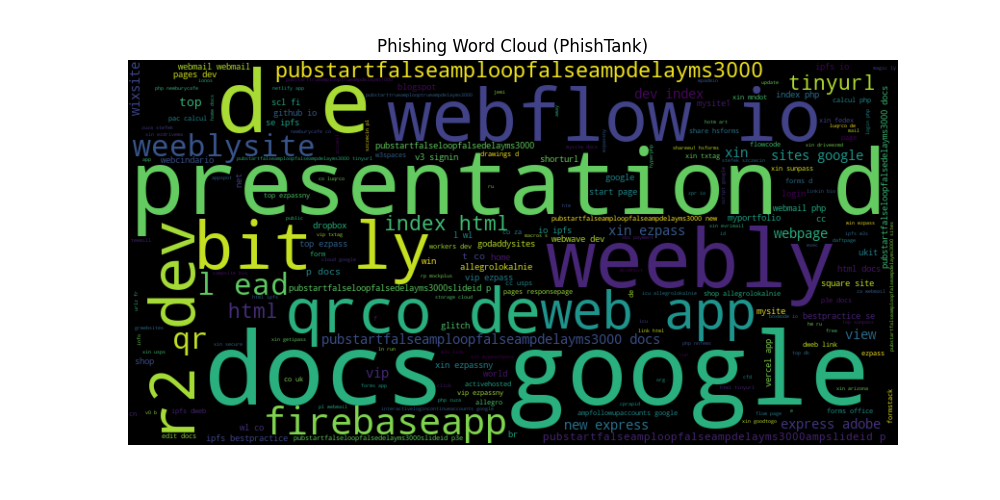
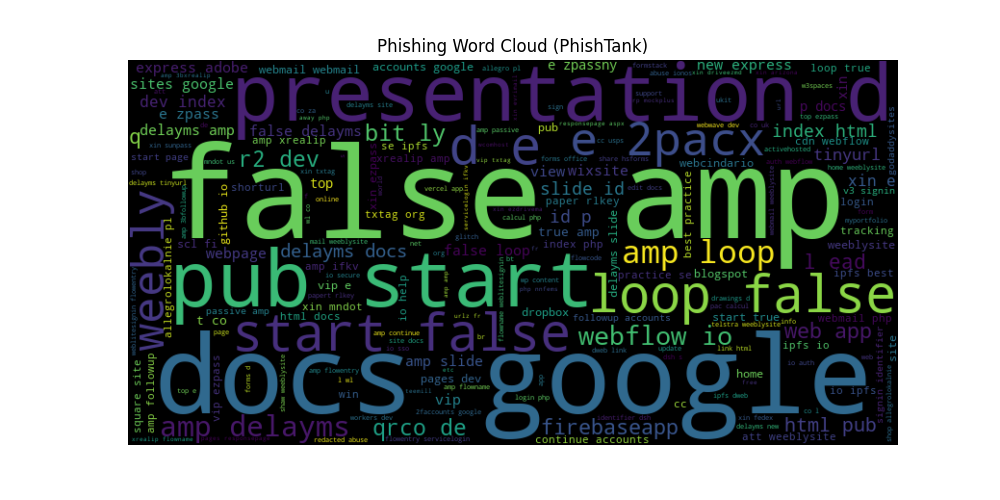
Updater EDA

diff --git a/results/eda/summary.md b/results/eda/summary.md
@@ -1,25 +1,26 @@
 # EDA Summary
 
 ## Enron
-**Summary**: {'Size': 33652, 'Columns': ['text', 'label'], 'Missing Values': {'text': 0, 'label': 0}, 'Duplicates': np.int64(4692)}
-**Label Distribution**: {1: 17107, 0: 16545}
-**Text Stats**: {'Char Length Mean': np.float64(1092.2825983596815), 'Char Length Median': np.float64(491.0), 'Word Length Mean': np.float64(1.0), 'Word Length Median': np.float64(1.0)}
-**Top Phishing Words**: [('savepercentonsuperviagrasavepercentonsuperviagraandincreasesexdrivemostplaceschargewechargeonlywhatisregalissuperviagraregaliscontainstadalafilmgwhichisthesameactiveingredientfoundinbrandnamecialisithasbeenprovedtohelpalargemajorityofmenwhosufferfromerectiledysfunctionalsocalledimpotencecialisisregardedasasuperviagraorweekendviagrabecauseitseffectsstartsoonerandlastmuchlongermenthatdonothaveimpotenceproblemsreportthatregalisincreasessexualpleasureandstayingpoweraswellasincreasingthesizeandhardnessoferectionsisitsafeformetotakeregalissuperviagrayoucanexpectgenericcialistoworkinthesamewayasbrandnamecialisbecausetheycontaintheexactsameactiveingredienttadalafilifcialisissafeforyouasdecidedbyyourdoctorgenericcialisisalsosafeforyouandshouldbetakeninthesamedosesasprescribedbyyourdoctortheusualdoesismgeachmgpillcanbesplitinhalfwillyoushipregalissuperviagratomycountrygenericcialisshipsworldwideincludingcanadajapanukandaustraliaweshipourproductinadiscretebrownpackagethatdoesnotmentionthecontentsoftheshipmentallordersareshippedfromindiaandusuallytakedaystoarivehowdoipayforregalissuperviagraweacceptmajorcreditcardsandcheckingaccountsusonlyalldataistransmitteddirectlytothebankusingbitencriptionandprocessedinstantlyweneverkeepyourinformationstoredonourserveryouaretotallysafetoorderonlinefromusinfactorderingonlinefromusissaferthanusingyourcardatarestaurantorstorebuyregalisgenericcialisandsavepercentwehavetheworldsbestpriceguaranteedremove', 9), ('fwdyourneededsoffttwaresatrockbottomprricewhatyouboughtpreviouslywasgotoshopbuuyyawindowsxpprothatcomeswithaboxserialnumberthemanualcosstwhatyouwillgetfromusisthefullwlndowsxpprosofftwareeserialnumberitworksexactlythesamebutyoudontgetthemanualandboxandtheprriceeisonlythatisasavviingofsooftwaretitleourlowpriicceadobbecreativesuitecdsadobbephotooshopcscddstudiomaxcdsadobbepremiereprocdaliaswavefrontmayaunlimitedautocadautodeskarchitecturaldesktopcakewalksonarproducereditioncdscanopusprocodercdcoreldrawgraphicsuitecdsdragonnaturallyspeakingpreferredmacromediadreamweavermxvmacromediafireworksmxvmacromediaflashmxvprofessionalmacromediastudiomxcdmicrosoftmoneydeluxecdmicrosoftofficesystemprofessionalcdsmicrosoftofficemultilingualuserinterfacepackcdsmicrosoftprojectpromicrosoftpublisherxpmicrosoftvisioforenterprisearchitectsmicrosoftwindowsxpcorporateeditionwithsplmicrosoftwindowsxpprofessionalnortonantiviruspronortonsystemworksprocdomnipageofficecdpinnacleimpressiondvdprocdptcproengineerwildfiredatecodecdspowerquestdriveimagemultilanguagecduleaddvdworkshopmicrosoftvisualstudionetenterprisearchitectcdswinfaxproandmoresoftwareshavesoftwaretitlesonoursiteforudownloadyoursofftwaaresfromoursuperfastmbitsconnectionsiteyouwillbegivenyourownexclusiveregistrationkeytoregisterthesofftwaaresyouboughtfromusandnowyouhaveyourownregisteredcopyofsofftwaareswillneverexpiredagainitsoemversionofsofftwaareswhichisanoriginalgenuinesofftwaaresstrictlynopiracysofftwaaresoverpopulartitlesforyoutochoosefromactquicknowbeforeallsoldstartusingyourneededsofftwaaresnowclickhereplzgiveminstocompletethepageloadingbcosthepagehastitlesonittakemedown', 8), ('overfdaapprovedmedsrndaltrndaltrndaltovermedstochoosefromwithnoprescriptionrequirednevermindrndaltrndaltrndalt', 8), ('hellodearhomeownerwehavebeennotifiedthatyourmortgagerateisfixedataveryhighinterestratethereforeyouarecurrentoverpayingwhichsumsuptothousandsofdollarsannuallyluckilyforyouwecanguaranteethelowestratesintheussohurrybecausetherateforecastisnotlookinggoodthereisnoobligationsanditfreelockontheevenwithbadcreditclickherenowfordetailsremovehere', 7), ('newproductcialissofttabshiwehaveanewproductthatweoffertoyoucialissofttabscialissofttabsisthenewimpotencetreatmentdrugthateveryoneistalkingaboutsofttabsactsuptohourscomparethistoonlytwoorthreehoursofviagraactiontheactiveingredientistadalafilsameasinbrandcialissimplydisolvehalfapillunderyourtongueminbeforesexforthebesterectionsyouveeverhadsofttabsalsohavelesssidebacksyoucandriveormixalcoholdrinkswiththemyoucangetitathttpgomedzcomsoftnothankshttpgomedzcomrrphp', 6), ('charityseestheneednotthecostdearfriendasyoureadthisidontwantyoutofeelsorryformebecauseibelieveeveryonewilldiesomedaymynameismrrezaabdullaamerchantinsafatinkuwaitiwasmarriedwithtwochildrenmywifeandtwochildrendiedinacaraccidentsixyearsagoihavebeendiagnosedwithesophagealcancerithasdefiledallformsofmedicaltreatmentandrightnowihaveonlyaboutafewmonthstoliveaccordingtomedicalexpertsihavenotparticularlylivedmylifesowellasineverreallycaredforanyonenotevenmyselfbutmybusinessthoughiamveryrichiwasnevergenerousiwasalwayshostiletopeopleandonlyfocusedonmybusinessasthatwastheonlythingicaredforbutnowiregretallthisasinowknowthatthereismoretolifethanjustwantingtohaveormakeallthemoneyintheworldibelievewhengodgivesmeasecondchancetocometothisworldiwouldlivemylifeadifferentwayfromhowihaveliveditnowthatgodhascalledmeihavewilledandgivenmostofmypropertyandassetstomyimmediateandextendedfamilymembersaswellasafewclosefriendsiwantgodtobemercifultomeandacceptmysoulsoihavedecidedtogivealmstocharityorganizationsasiwantthistobeoneofthelastgooddeedsidoonearthsofarihavedistributedmoneytosomecharityorganizationsintheuaealgeriaandmalaysianowthatmyhealthhasdeterioratedsobadlyicannotdothismyselfanymoreionceaskedmembersofmyfamilytocloseoneofmyaccountsanddistributethemoneywhichihavetheretocharityorganizationinbulgariaandpakistantheyrefusedandkeptthemoneytothemselveshenceidonottrustthemanymoreastheyseemnottobecontendedwithwhatihaveleftforthemthelastofmymoneywhichnooneknowsofisthehugecashdepositoftenmillionsevenhundredthousandamericandollarsusthatihavewithafinancesecuritycompanyabroadiwillwantyoutohelpmecollectthisdepositanddispatchedittocharityorganizationsihavesetasideonlyforyouandforyourtimeandalsoasmiscellaneousexpensesreplymeatyourearliestconvenienceformoredirectivestomyprivateemailaddressrezaabdullawallacomgodbewithyouregardsmrrezaabdulla', 6), ('getadelllaptopcomputerfree', 5), ('getyourcollegedegreeonline', 5), ('doyouejacultebeforeorafterfewminutesofpenetrationthenyoumustreadthisimportantnewinformationatlastsomethingcanbedoneagainstthisembarssingproblemwhichleadstodiscomforteveninlongestablishedrelationshipsifyouaremanenoughtoreadongoherenotinterested', 5), ('womenchangeyourlife', 4)]
-**Top Legitimate Words**: [('startdatehouraheadhourstartdatehouraheadhournoancillaryschedulesawardednovariancesdetectedlogmessagesparsingfileo\\portland\\westdesk\\californiascheduling\\isofinalschedules\\txt', 449), ('schedulecrawlerhouraheadfailurestartdatehouraheadhourhouraheadscheduledownloadfailedmanualinterventionrequired', 85), ('schedulecrawlerhouraheadfailurestartdatehouraheadhourhouraheadscheduledownloadfailedmanualinterventionrequiredlogmessagesparsingfileo\\portland\\westdesk\\californiascheduling\\isofinalschedules\\txterrordbcapsdatacannotperformthisoperationonacloseddatabaseunknowndatabasealiasdbcapsdataunknowndatabasealiasdbcapsdataunknowndatabasealiasdbcapsdataerrordbcapsdatacannotperformthisoperationonacloseddatabaseunknowndatabasealiasdbcapsdataunknowndatabasealiasdbcapsdataunknowndatabasealiasdbcapsdataerrordbcapsdatacannotperformthisoperationonacloseddatabaseunknowndatabasealiasdbcapsdataunknowndatabasealiasdbcapsdataerrordbcapsdatacannotperformthisoperationonacloseddatabaseerrordbcapsdatacannotperformthisoperationonacloseddatabaseerrordbcapsdatacannotperformthisoperationonacloseddatabaseunknowndatabasealiasdbcapsdataunknowndatabasealiasdbcapsdataunknowndatabasealiasdbcapsdataunknowndatabasealiasdbcapsdataunknowndatabasealiasdbcapsdataunknowndatabasealiasdbcapsdataunknowndatabasealiasdbcapsdataerrordbcapsdatacannotperformthisoperationonacloseddatabase', 42), ('startdatehouraheadhourstartdatehouraheadhournoancillaryschedulesawardedvariancesdetectedvariancesdetectedinloadschedulelogmessagesparsingfileo\\portland\\westdesk\\californiascheduling\\isofinalschedules\\txtloadschedulevariancefoundintabletblloadsdetailshourpreferredfinaltranstypefinalloadidpgemkttypetransdatescidenrj', 37), ('schedulecrawlerhouraheadfailurestartdatehouraheadhourhouraheadscheduledownloadfailedmanualinterventionrequiredlogmessagesparsingfileo\\portland\\westdesk\\californiascheduling\\isofinalschedules\\txterrordbcapsdatacannotperformthisoperationonacloseddatabaseunknowndatabasealiasdbcapsdataunknowndatabasealiasdbcapsdataunknowndatabasealiasdbcapsdataerrordbcapsdatacannotperformthisoperationonacloseddatabaseunknowndatabasealiasdbcapsdataunknowndatabasealiasdbcapsdataunknowndatabasealiasdbcapsdataerrordbcapsdatacannotperformthisoperationonacloseddatabaseunknowndatabasealiasdbcapsdataunknowndatabasealiasdbcapsdataerrordbcapsdatacannotperformthisoperationonacloseddatabaseerrordbcapsdatacannotperformthisoperationonacloseddatabaseerrordbcapsdatacannotperformthisoperationonacloseddatabaseunknowndatabasealiasdbcapsdataunknowndatabasealiasdbcapsdataunknowndatabasealiasdbcapsdataunknowndatabasealiasdbcapsdataunknowndatabasealiasdbcapsdataunknowndatabasealiasdbcapsdataerrordbcapsdatacannotperformthisoperationonacloseddatabase', 36), ('hplnomformarchseeattachedfilehplnoxlshplnoxls', 31), ('hplnomforaprilseeattachedfilehplnoxlshplnoxls', 22), ('hplnomformayseeattachedfilehplnoxlshplnoxls', 22), ('startdatehouraheadhourstartdatehouraheadhournoancillaryschedulesawardednovariancesdetectedlogmessagesparsingfileo\\portland\\westdesk\\californiascheduling\\isofinalschedules\\txtcannotlocateapreferredorrevisedpreferredschedulethatmatchesthefinalindividualinterchangescheduleunabletoassigndealnumber', 21), ('calpinedailygasnominationrickyaarcherfuelsupplylouisianasuitehoustontexasdirectfaxcalpinedailygasnominationdoc', 20)]
-**Top Phishing Bigrams**: []
-**Top Legitimate Bigrams**: []
-**Top Phishing Trigrams**: []
-**Top Legitimate Trigrams**: []
+**Summary**: {'Size': 28930, 'Columns': ['text', 'label'], 'Missing Values': {'text': 0, 'label': 0}, 'Duplicates': np.int64(0)}
+**Label Distribution**: {1: 14482, 0: 14448}
+**Text Stats**: {'Char Length Mean': np.float64(971.1209471137228), 'Char Length Median': np.float64(445.0), 'Word Length Mean': np.float64(135.03059108192187), 'Word Length Median': np.float64(64.0)}
+**Top Phishing Words**: [('company', 11822), ('com', 9779), ('http', 7465), ('email', 7204), ('information', 6506), ('please', 6194), ('price', 6193), ('statement', 6019), ('security', 5434), ('may', 5285)]
+**Top Legitimate Words**: [('enron', 52435), ('ect', 33917), ('hou', 16243), ('please', 12110), ('company', 11847), ('com', 11739), ('would', 11431), ('subject', 11421), ('said', 8903), ('energy', 8736)]
+**Top Phishing Bigrams**: [(('http', 'www'), 3147), (('looking', 'statement'), 1920), (('forward', 'looking'), 1668), (('investment', 'advice'), 1279), (('email', 'address'), 1261), (('within', 'email'), 985), (('risk', 'uncertainty'), 896), (('section', 'security'), 896), (('information', 'provided'), 895), (('would', 'like'), 879)]
+**Top Legitimate Bigrams**: [(('hou', 'ect'), 15523), (('ect', 'ect'), 15175), (('enron', 'enron'), 5935), (('enron', 'com'), 4185), (('let', 'know'), 3997), (('vince', 'kaminski'), 3881), (('original', 'message'), 3667), (('ect', 'subject'), 3583), (('corp', 'enron'), 3081), (('dow', 'jones'), 2399)]
+**Top Phishing Trigrams**: [(('forward', 'looking', 'statement'), 1619), (('statement', 'within', 'meaning'), 661), (('www', 'computron', 'com'), 627), (('phone', 'mobile', 'email'), 508), (('security', 'act', 'section'), 503), (('forward', 'ooking', 'statement'), 486), (('security', 'exchange', 'act'), 476), (('nbsp', 'nbsp', 'nbsp'), 470), (('within', 'meaning', 'section'), 466), (('number', 'risk', 'uncertainty'), 461)]
+**Top Legitimate Trigrams**: [(('hou', 'ect', 'ect'), 13107), (('ect', 'ect', 'subject'), 3468), (('corp', 'enron', 'enron'), 2393), (('please', 'let', 'know'), 2009), (('vince', 'kaminski', 'hou'), 1678), (('kaminski', 'hou', 'ect'), 1678), (('lon', 'ect', 'ect'), 1646), (('copyright', 'dow', 'jones'), 1500), (('dow', 'jones', 'company'), 1125), (('jones', 'company', 'inc'), 1124)]
 ## PhishTank
-**Summary**: {'Size': 64320, 'Columns': ['text', 'label'], 'Missing Values': {'text': 0, 'label': 0}, 'Duplicates': np.int64(0)}
-**Label Distribution**: {1: 64320}
-**Text Stats**: {'Char Length Mean': np.float64(45.44395211442786), 'Char Length Median': np.float64(26.0), 'Word Length Mean': np.float64(1.0012748756218905), 'Word Length Median': np.float64(1.0)}
-**Top Phishing Words**: [('...', 20), ('xnd1aqfkf.xnp1ai/bitrix/', 5), ('xnd1aqfkf.xnp1ai443/bitrix/', 3), ('papertrlkeyij9heg0tddevqoek3q94lj8uhdl0', 2), ('papertdl0rlkeycmogrenrbjfp51d8k5prlx5pl', 2), ('/globalsources/emailsalesrtmachine.com', 2), ('/globalsources/emailjerwinclmgcorp.com', 2), ('/globalsources/emailinfo.sgovivowater.com', 2), ('bayareafastrak.orgetcsw.win/', 1), ('bayareafastrak.orgetcsv.win/', 1)]
+**Summary**: {'Size': 64323, 'Columns': ['text', 'label', 'url'], 'Missing Values': {'text': 0, 'label': 0, 'url': 0}, 'Duplicates': np.int64(0)}
+**Label Distribution**: {1: 64323}
+**Text Stats**: {'Char Length Mean': np.float64(47.07777933243163), 'Char Length Median': np.float64(27.0), 'Word Length Mean': np.float64(2.08034451129456), 'Word Length Median': np.float64(1.0)}
+**Top Phishing Words**: [('amp', 12313), ('false', 10341), ('start', 5552), ('loop', 5480), ('delayms', 5479), ('3000', 5277), ('slide', 1481), ('id.p', 1447), ('true', 833), ('rlkey', 443)]
 **Top Legitimate Words**: []
-**Top Phishing Bigrams**: [(('xnd1aqfkf.xnp1ai/bitrix/', '...'), 5), (('xnd1aqfkf.xnp1ai443/bitrix/', '...'), 3), (('...', 'papertdl0rlkeycmogrenrbjfp51d8k5prlx5pl'), 2), (('...', '/globalsources/emailsalesrtmachine.com'), 2), (('...', '/globalsources/emailjerwinclmgcorp.com'), 2), (('...', '/globalsources/emailinfo.sgovivowater.com'), 2), (('www.3136mase.life/account/loginspm', 'index.header_1.1'), 1), (('allegrolokalnie.zakuponline24h.pl/oferta/', '...'), 1), (('t.co/abbziz0dxse_5346ampupdate1amptoken2y125572', '5724'), 1), (('allegrolokalnie.zakuponline24h.pl/oferta/jblpartybox710pr', '...'), 1)]
+**Top Phishing Bigrams**: [(('false', 'amp'), 8142), (('delayms', '3000'), 5273), (('loop', 'false'), 5167), (('start', 'false'), 5130), (('amp', 'loop'), 4370), (('amp', 'delayms'), 4370), (('slide', 'id.p'), 1444), (('false', 'delayms'), 1074), (('false', 'loop'), 1061), (('amp', 'slide'), 905)]
 **Top Legitimate Bigrams**: []
-**Top Phishing Trigrams**: [(('www.clinicadapele.com.br/wpcontent/uploads/alert/', '...', '/index.php'), 1), (('admirablebaklava6996abhk112s.netlify.app/dist/rcdnull/dist/rcdnull/dist/rcdnull/dist/rcdnull/dist/rcdnull/dist/rcdnull/dist/rcdnull/dist/rcdnull//dist/rcdnull/dist/rcdnull/dist/rcdnull/dist/rcdnull/dist/rcdnull/dist/rcdnull/dist/rcdnull', '....', '2031120'), 1), (('....', '2031120', '...'), 1), (('2031120', '...', '/dist/rcdnull/dist/rcdnull'), 1), (('zolotayapodkovka.ru/.tmb/', '...', '/closed/fr/1/doc/start_index.php'), 1), (('www.dropbox.com/scl/fi/hrs78ef9ib5wfwssijyzj/btnewsecurityfeaturese280a6', '...', 'papertdl0rlkeycmogrenrbjfp51d8k5prlx5pl'), 1), (('www.dropbox.com/scl/fi/hrs78ef9ib5wfwssijyzj/btvoicemailrecorde280a6', '...', 'papertdl0rlkeycmogrenrbjfp51d8k5prlx5pl'), 1), (('xnd1aqfkf.xnp1ai443/bitrix/', '...', '/globalsources/emailsalesrtmachine.com'), 1), (('xnd1aqfkf.xnp1ai/bitrix/', '...', '/globalsources/emailsalesrtmachine.com'), 1), (('xnd1aqfkf.xnp1ai443/bitrix/', '...', '/globalsources/emailjerwinclmgcorp.com'), 1)]
+**Top Phishing Trigrams**: [(('amp', 'delayms', '3000'), 4197), (('amp', 'loop', 'false'), 4089), (('loop', 'false', 'amp'), 4088), (('false', 'amp', 'delayms'), 4084), (('start', 'false', 'amp'), 4047), (('false', 'amp', 'loop'), 4038), (('loop', 'false', 'delayms'), 1074), (('start', 'false', 'loop'), 1061), (('false', 'loop', 'false'), 1060), (('false', 'delayms', '3000'), 1050)]
 **Top Legitimate Trigrams**: []
+**URL Stats**: {}
 ## UCI
 **Summary**: {'Size': 5849, 'Columns': ['having_IP_Address', 'URL_Length', 'Shortining_Service', 'having_At_Symbol', 'double_slash_redirecting', 'Prefix_Suffix', 'having_Sub_Domain', 'SSLfinal_State', 'Domain_registeration_length', 'Favicon', 'port', 'HTTPS_token', 'Request_URL', 'URL_of_Anchor', 'Links_in_tags', 'SFH', 'Submitting_to_email', 'Abnormal_URL', 'Redirect', 'on_mouseover', 'RightClick', 'popUpWidnow', 'Iframe', 'age_of_domain', 'DNSRecord', 'web_traffic', 'Page_Rank', 'Google_Index', 'Links_pointing_to_page', 'Statistical_report', 'label'], 'Missing Values': {'having_IP_Address': 0, 'URL_Length': 0, 'Shortining_Service': 0, 'having_At_Symbol': 0, 'double_slash_redirecting': 0, 'Prefix_Suffix': 0, 'having_Sub_Domain': 0, 'SSLfinal_State': 0, 'Domain_registeration_length': 0, 'Favicon': 0, 'port': 0, 'HTTPS_token': 0, 'Request_URL': 0, 'URL_of_Anchor': 0, 'Links_in_tags': 0, 'SFH': 0, 'Submitting_to_email': 0, 'Abnormal_URL': 0, 'Redirect': 0, 'on_mouseover': 0, 'RightClick': 0, 'popUpWidnow': 0, 'Iframe': 0, 'age_of_domain': 0, 'DNSRecord': 0, 'web_traffic': 0, 'Page_Rank': 0, 'Google_Index': 0, 'Links_pointing_to_page': 0, 'Statistical_report': 0, 'label': 0}, 'Duplicates': np.int64(0)}
 **Label Distribution**: {1: 3019, 0: 2830}
@@ -89,15 +90,16 @@ port                           0.002893
 Iframe                         0.002882
 RightClick                     0.001881
 ## Combined (Enron + PhishTank)
-**Summary**: {'Size': 97972, 'Columns': ['text', 'label'], 'Missing Values': {'text': 0, 'label': 0}, 'Duplicates': np.int64(4692)}
-**Label Distribution**: {1: 81427, 0: 16545}
-**Text Stats**: {'Char Length Mean': np.float64(405.0182603192749), 'Char Length Median': np.float64(43.0), 'Word Length Mean': np.float64(1.0008369738292573), 'Word Length Median': np.float64(1.0)}
-**Top Phishing Words**: [('...', 20), ('savepercentonsuperviagrasavepercentonsuperviagraandincreasesexdrivemostplaceschargewechargeonlywhatisregalissuperviagraregaliscontainstadalafilmgwhichisthesameactiveingredientfoundinbrandnamecialisithasbeenprovedtohelpalargemajorityofmenwhosufferfromerectiledysfunctionalsocalledimpotencecialisisregardedasasuperviagraorweekendviagrabecauseitseffectsstartsoonerandlastmuchlongermenthatdonothaveimpotenceproblemsreportthatregalisincreasessexualpleasureandstayingpoweraswellasincreasingthesizeandhardnessoferectionsisitsafeformetotakeregalissuperviagrayoucanexpectgenericcialistoworkinthesamewayasbrandnamecialisbecausetheycontaintheexactsameactiveingredienttadalafilifcialisissafeforyouasdecidedbyyourdoctorgenericcialisisalsosafeforyouandshouldbetakeninthesamedosesasprescribedbyyourdoctortheusualdoesismgeachmgpillcanbesplitinhalfwillyoushipregalissuperviagratomycountrygenericcialisshipsworldwideincludingcanadajapanukandaustraliaweshipourproductinadiscretebrownpackagethatdoesnotmentionthecontentsoftheshipmentallordersareshippedfromindiaandusuallytakedaystoarivehowdoipayforregalissuperviagraweacceptmajorcreditcardsandcheckingaccountsusonlyalldataistransmitteddirectlytothebankusingbitencriptionandprocessedinstantlyweneverkeepyourinformationstoredonourserveryouaretotallysafetoorderonlinefromusinfactorderingonlinefromusissaferthanusingyourcardatarestaurantorstorebuyregalisgenericcialisandsavepercentwehavetheworldsbestpriceguaranteedremove', 9), ('fwdyourneededsoffttwaresatrockbottomprricewhatyouboughtpreviouslywasgotoshopbuuyyawindowsxpprothatcomeswithaboxserialnumberthemanualcosstwhatyouwillgetfromusisthefullwlndowsxpprosofftwareeserialnumberitworksexactlythesamebutyoudontgetthemanualandboxandtheprriceeisonlythatisasavviingofsooftwaretitleourlowpriicceadobbecreativesuitecdsadobbephotooshopcscddstudiomaxcdsadobbepremiereprocdaliaswavefrontmayaunlimitedautocadautodeskarchitecturaldesktopcakewalksonarproducereditioncdscanopusprocodercdcoreldrawgraphicsuitecdsdragonnaturallyspeakingpreferredmacromediadreamweavermxvmacromediafireworksmxvmacromediaflashmxvprofessionalmacromediastudiomxcdmicrosoftmoneydeluxecdmicrosoftofficesystemprofessionalcdsmicrosoftofficemultilingualuserinterfacepackcdsmicrosoftprojectpromicrosoftpublisherxpmicrosoftvisioforenterprisearchitectsmicrosoftwindowsxpcorporateeditionwithsplmicrosoftwindowsxpprofessionalnortonantiviruspronortonsystemworksprocdomnipageofficecdpinnacleimpressiondvdprocdptcproengineerwildfiredatecodecdspowerquestdriveimagemultilanguagecduleaddvdworkshopmicrosoftvisualstudionetenterprisearchitectcdswinfaxproandmoresoftwareshavesoftwaretitlesonoursiteforudownloadyoursofftwaaresfromoursuperfastmbitsconnectionsiteyouwillbegivenyourownexclusiveregistrationkeytoregisterthesofftwaaresyouboughtfromusandnowyouhaveyourownregisteredcopyofsofftwaareswillneverexpiredagainitsoemversionofsofftwaareswhichisanoriginalgenuinesofftwaaresstrictlynopiracysofftwaaresoverpopulartitlesforyoutochoosefromactquicknowbeforeallsoldstartusingyourneededsofftwaaresnowclickhereplzgiveminstocompletethepageloadingbcosthepagehastitlesonittakemedown', 8), ('overfdaapprovedmedsrndaltrndaltrndaltovermedstochoosefromwithnoprescriptionrequirednevermindrndaltrndaltrndalt', 8), ('hellodearhomeownerwehavebeennotifiedthatyourmortgagerateisfixedataveryhighinterestratethereforeyouarecurrentoverpayingwhichsumsuptothousandsofdollarsannuallyluckilyforyouwecanguaranteethelowestratesintheussohurrybecausetherateforecastisnotlookinggoodthereisnoobligationsanditfreelockontheevenwithbadcreditclickherenowfordetailsremovehere', 7), ('newproductcialissofttabshiwehaveanewproductthatweoffertoyoucialissofttabscialissofttabsisthenewimpotencetreatmentdrugthateveryoneistalkingaboutsofttabsactsuptohourscomparethistoonlytwoorthreehoursofviagraactiontheactiveingredientistadalafilsameasinbrandcialissimplydisolvehalfapillunderyourtongueminbeforesexforthebesterectionsyouveeverhadsofttabsalsohavelesssidebacksyoucandriveormixalcoholdrinkswiththemyoucangetitathttpgomedzcomsoftnothankshttpgomedzcomrrphp', 6), ('charityseestheneednotthecostdearfriendasyoureadthisidontwantyoutofeelsorryformebecauseibelieveeveryonewilldiesomedaymynameismrrezaabdullaamerchantinsafatinkuwaitiwasmarriedwithtwochildrenmywifeandtwochildrendiedinacaraccidentsixyearsagoihavebeendiagnosedwithesophagealcancerithasdefiledallformsofmedicaltreatmentandrightnowihaveonlyaboutafewmonthstoliveaccordingtomedicalexpertsihavenotparticularlylivedmylifesowellasineverreallycaredforanyonenotevenmyselfbutmybusinessthoughiamveryrichiwasnevergenerousiwasalwayshostiletopeopleandonlyfocusedonmybusinessasthatwastheonlythingicaredforbutnowiregretallthisasinowknowthatthereismoretolifethanjustwantingtohaveormakeallthemoneyintheworldibelievewhengodgivesmeasecondchancetocometothisworldiwouldlivemylifeadifferentwayfromhowihaveliveditnowthatgodhascalledmeihavewilledandgivenmostofmypropertyandassetstomyimmediateandextendedfamilymembersaswellasafewclosefriendsiwantgodtobemercifultomeandacceptmysoulsoihavedecidedtogivealmstocharityorganizationsasiwantthistobeoneofthelastgooddeedsidoonearthsofarihavedistributedmoneytosomecharityorganizationsintheuaealgeriaandmalaysianowthatmyhealthhasdeterioratedsobadlyicannotdothismyselfanymoreionceaskedmembersofmyfamilytocloseoneofmyaccountsanddistributethemoneywhichihavetheretocharityorganizationinbulgariaandpakistantheyrefusedandkeptthemoneytothemselveshenceidonottrustthemanymoreastheyseemnottobecontendedwithwhatihaveleftforthemthelastofmymoneywhichnooneknowsofisthehugecashdepositoftenmillionsevenhundredthousandamericandollarsusthatihavewithafinancesecuritycompanyabroadiwillwantyoutohelpmecollectthisdepositanddispatchedittocharityorganizationsihavesetasideonlyforyouandforyourtimeandalsoasmiscellaneousexpensesreplymeatyourearliestconvenienceformoredirectivestomyprivateemailaddressrezaabdullawallacomgodbewithyouregardsmrrezaabdulla', 6), ('getadelllaptopcomputerfree', 5), ('getyourcollegedegreeonline', 5), ('doyouejacultebeforeorafterfewminutesofpenetrationthenyoumustreadthisimportantnewinformationatlastsomethingcanbedoneagainstthisembarssingproblemwhichleadstodiscomforteveninlongestablishedrelationshipsifyouaremanenoughtoreadongoherenotinterested', 5)]
-**Top Legitimate Words**: [('startdatehouraheadhourstartdatehouraheadhournoancillaryschedulesawardednovariancesdetectedlogmessagesparsingfileo\\portland\\westdesk\\californiascheduling\\isofinalschedules\\txt', 449), ('schedulecrawlerhouraheadfailurestartdatehouraheadhourhouraheadscheduledownloadfailedmanualinterventionrequired', 85), ('schedulecrawlerhouraheadfailurestartdatehouraheadhourhouraheadscheduledownloadfailedmanualinterventionrequiredlogmessagesparsingfileo\\portland\\westdesk\\californiascheduling\\isofinalschedules\\txterrordbcapsdatacannotperformthisoperationonacloseddatabaseunknowndatabasealiasdbcapsdataunknowndatabasealiasdbcapsdataunknowndatabasealiasdbcapsdataerrordbcapsdatacannotperformthisoperationonacloseddatabaseunknowndatabasealiasdbcapsdataunknowndatabasealiasdbcapsdataunknowndatabasealiasdbcapsdataerrordbcapsdatacannotperformthisoperationonacloseddatabaseunknowndatabasealiasdbcapsdataunknowndatabasealiasdbcapsdataerrordbcapsdatacannotperformthisoperationonacloseddatabaseerrordbcapsdatacannotperformthisoperationonacloseddatabaseerrordbcapsdatacannotperformthisoperationonacloseddatabaseunknowndatabasealiasdbcapsdataunknowndatabasealiasdbcapsdataunknowndatabasealiasdbcapsdataunknowndatabasealiasdbcapsdataunknowndatabasealiasdbcapsdataunknowndatabasealiasdbcapsdataunknowndatabasealiasdbcapsdataerrordbcapsdatacannotperformthisoperationonacloseddatabase', 42), ('startdatehouraheadhourstartdatehouraheadhournoancillaryschedulesawardedvariancesdetectedvariancesdetectedinloadschedulelogmessagesparsingfileo\\portland\\westdesk\\californiascheduling\\isofinalschedules\\txtloadschedulevariancefoundintabletblloadsdetailshourpreferredfinaltranstypefinalloadidpgemkttypetransdatescidenrj', 37), ('schedulecrawlerhouraheadfailurestartdatehouraheadhourhouraheadscheduledownloadfailedmanualinterventionrequiredlogmessagesparsingfileo\\portland\\westdesk\\californiascheduling\\isofinalschedules\\txterrordbcapsdatacannotperformthisoperationonacloseddatabaseunknowndatabasealiasdbcapsdataunknowndatabasealiasdbcapsdataunknowndatabasealiasdbcapsdataerrordbcapsdatacannotperformthisoperationonacloseddatabaseunknowndatabasealiasdbcapsdataunknowndatabasealiasdbcapsdataunknowndatabasealiasdbcapsdataerrordbcapsdatacannotperformthisoperationonacloseddatabaseunknowndatabasealiasdbcapsdataunknowndatabasealiasdbcapsdataerrordbcapsdatacannotperformthisoperationonacloseddatabaseerrordbcapsdatacannotperformthisoperationonacloseddatabaseerrordbcapsdatacannotperformthisoperationonacloseddatabaseunknowndatabasealiasdbcapsdataunknowndatabasealiasdbcapsdataunknowndatabasealiasdbcapsdataunknowndatabasealiasdbcapsdataunknowndatabasealiasdbcapsdataunknowndatabasealiasdbcapsdataerrordbcapsdatacannotperformthisoperationonacloseddatabase', 36), ('hplnomformarchseeattachedfilehplnoxlshplnoxls', 31), ('hplnomforaprilseeattachedfilehplnoxlshplnoxls', 22), ('hplnomformayseeattachedfilehplnoxlshplnoxls', 22), ('startdatehouraheadhourstartdatehouraheadhournoancillaryschedulesawardednovariancesdetectedlogmessagesparsingfileo\\portland\\westdesk\\californiascheduling\\isofinalschedules\\txtcannotlocateapreferredorrevisedpreferredschedulethatmatchesthefinalindividualinterchangescheduleunabletoassigndealnumber', 21), ('calpinedailygasnominationrickyaarcherfuelsupplylouisianasuitehoustontexasdirectfaxcalpinedailygasnominationdoc', 20)]
-**Top Phishing Bigrams**: [(('xnd1aqfkf.xnp1ai/bitrix/', '...'), 5), (('xnd1aqfkf.xnp1ai443/bitrix/', '...'), 3), (('...', 'papertdl0rlkeycmogrenrbjfp51d8k5prlx5pl'), 2), (('...', '/globalsources/emailsalesrtmachine.com'), 2), (('...', '/globalsources/emailjerwinclmgcorp.com'), 2), (('...', '/globalsources/emailinfo.sgovivowater.com'), 2), (('www.3136mase.life/account/loginspm', 'index.header_1.1'), 1), (('allegrolokalnie.zakuponline24h.pl/oferta/', '...'), 1), (('t.co/abbziz0dxse_5346ampupdate1amptoken2y125572', '5724'), 1), (('allegrolokalnie.zakuponline24h.pl/oferta/jblpartybox710pr', '...'), 1)]
-**Top Legitimate Bigrams**: []
-**Top Phishing Trigrams**: [(('www.clinicadapele.com.br/wpcontent/uploads/alert/', '...', '/index.php'), 1), (('admirablebaklava6996abhk112s.netlify.app/dist/rcdnull/dist/rcdnull/dist/rcdnull/dist/rcdnull/dist/rcdnull/dist/rcdnull/dist/rcdnull/dist/rcdnull//dist/rcdnull/dist/rcdnull/dist/rcdnull/dist/rcdnull/dist/rcdnull/dist/rcdnull/dist/rcdnull', '....', '2031120'), 1), (('....', '2031120', '...'), 1), (('2031120', '...', '/dist/rcdnull/dist/rcdnull'), 1), (('zolotayapodkovka.ru/.tmb/', '...', '/closed/fr/1/doc/start_index.php'), 1), (('www.dropbox.com/scl/fi/hrs78ef9ib5wfwssijyzj/btnewsecurityfeaturese280a6', '...', 'papertdl0rlkeycmogrenrbjfp51d8k5prlx5pl'), 1), (('www.dropbox.com/scl/fi/hrs78ef9ib5wfwssijyzj/btvoicemailrecorde280a6', '...', 'papertdl0rlkeycmogrenrbjfp51d8k5prlx5pl'), 1), (('xnd1aqfkf.xnp1ai443/bitrix/', '...', '/globalsources/emailsalesrtmachine.com'), 1), (('xnd1aqfkf.xnp1ai/bitrix/', '...', '/globalsources/emailsalesrtmachine.com'), 1), (('xnd1aqfkf.xnp1ai443/bitrix/', '...', '/globalsources/emailjerwinclmgcorp.com'), 1)]
-**Top Legitimate Trigrams**: []
+**Summary**: {'Size': 57860, 'Columns': ['text', 'label'], 'Missing Values': {'text': 0, 'label': 0}, 'Duplicates': np.int64(0)}
+**Label Distribution**: {1: 43412, 0: 14448}
+**Text Stats**: {'Char Length Mean': np.float64(508.4370895264431), 'Char Length Median': np.float64(116.0), 'Word Length Mean': np.float64(68.53486000691323), 'Word Length Median': np.float64(9.0)}
+**Top Phishing Words**: [('company', 11822), ('com', 9786), ('http', 7622), ('email', 7263), ('information', 6506), ('please', 6194), ('price', 6193), ('statement', 6019), ('security', 5434), ('amp', 5403)]
+**Top Legitimate Words**: [('enron', 52435), ('ect', 33917), ('hou', 16243), ('please', 12110), ('company', 11847), ('com', 11739), ('would', 11431), ('subject', 11421), ('said', 8903), ('energy', 8736)]
+**Top Phishing Bigrams**: [(('false', 'amp'), 3623), (('http', 'www'), 3147), (('delayms', '3000'), 2314), (('loop', 'false'), 2275), (('start', 'false'), 2269), (('amp', 'loop'), 1922), (('amp', 'delayms'), 1921), (('looking', 'statement'), 1920), (('forward', 'looking'), 1668), (('investment', 'advice'), 1279)]
+**Top Legitimate Bigrams**: [(('hou', 'ect'), 15523), (('ect', 'ect'), 15175), (('enron', 'enron'), 5935), (('enron', 'com'), 4185), (('let', 'know'), 3997), (('vince', 'kaminski'), 3881), (('original', 'message'), 3667), (('ect', 'subject'), 3583), (('corp', 'enron'), 3081), (('dow', 'jones'), 2399)]
+**Top Phishing Trigrams**: [(('amp', 'delayms', '3000'), 1850), (('amp', 'loop', 'false'), 1817), (('loop', 'false', 'amp'), 1816), (('false', 'amp', 'delayms'), 1814), (('start', 'false', 'amp'), 1803), (('false', 'amp', 'loop'), 1798), (('forward', 'looking', 'statement'), 1619), (('statement', 'within', 'meaning'), 661), (('www', 'computron', 'com'), 627), (('phone', 'mobile', 'email'), 508)]
+**Top Legitimate Trigrams**: [(('hou', 'ect', 'ect'), 13107), (('ect', 'ect', 'subject'), 3468), (('corp', 'enron', 'enron'), 2393), (('please', 'let', 'know'), 2009), (('vince', 'kaminski', 'hou'), 1678), (('kaminski', 'hou', 'ect'), 1678), (('lon', 'ect', 'ect'), 1646), (('copyright', 'dow', 'jones'), 1500), (('dow', 'jones', 'company'), 1125), (('jones', 'company', 'inc'), 1124)]
+**Token Stats**: {'Token Length Mean': np.float64(512.0), 'Token Length Median': np.float64(512.0), 'Token Length Max': np.int64(512)}
 ## Balanced (SMOTE)
-**Summary**: {'Size': 162854, 'Columns': ['label'], 'Missing Values': {'label': 0}, 'Duplicates': np.int64(162852)}
-**Label Distribution**: {0: 81427, 1: 81427}
+**Summary**: {'Size': 2, 'Columns': ['label'], 'Missing Values': {'label': 0}, 'Duplicates': np.int64(0)}
+**Label Distribution**: {0: 1, 1: 1}
